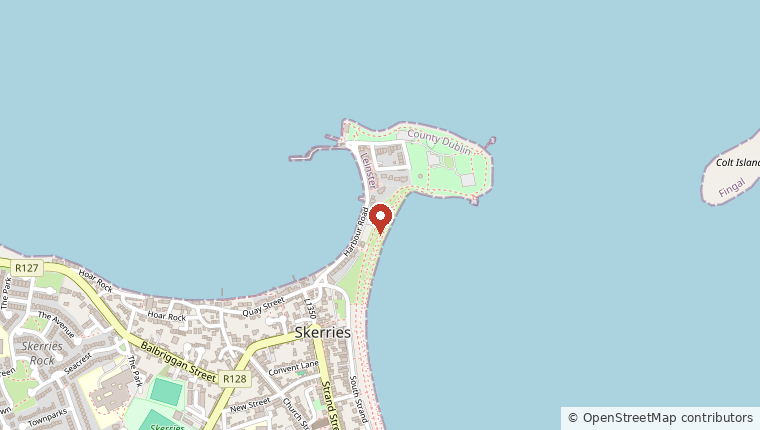
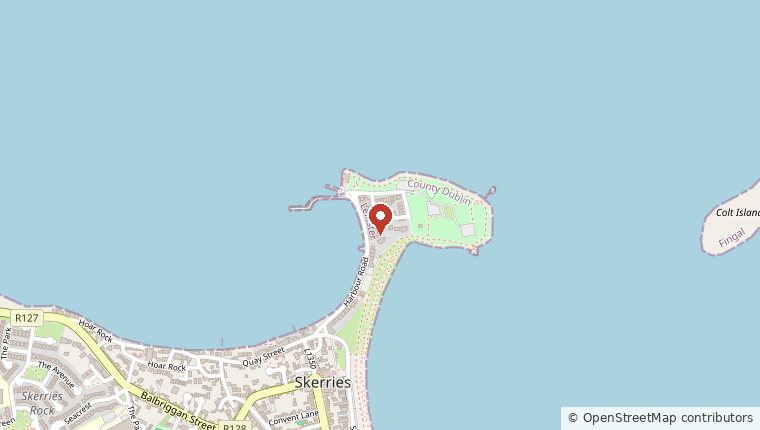
Correct station map location to the actual Red Island station
Marker was ~140m too far south on Harbour Road; recenter on the real
Skerries Coast Guard building (53.5849, -6.1042, per OSM) and update the
map links. Cache-bust the regenerated image.

Changed region(s): [[0.0, 0.2721, 0.6658, 1.0], [0.9079, 0.2721, 1.0, 0.6047]]

diff --git a/contact.html b/contact.html
@@ -76,7 +76,7 @@
           <div class="contact-detail-icon">&#128233;</div>
           <div>
             <strong>General Enquiries</strong>
-            <p><a href="mailto:skerries@coastguard.ie">info@skerriescoastguard.ie</a></p>
+            <p><a href="mailto:skerries@coastguard.ie">info@skerriescoastguard.com</a></p>
             <small>We aim to respond within 3 working days.</small>
           </div>
         </div>
@@ -98,10 +98,10 @@
           </div>
         </div>
 
-        <a class="station-map" href="https://www.openstreetmap.org/?mlat=53.5836&amp;mlon=-6.1042#map=16/53.5836/-6.1042" target="_blank" rel="noopener" aria-label="Open the Skerries Coast Guard Station location on OpenStreetMap in a new tab">
-          <img src="images/station-map.png" alt="Map showing Skerries Coast Guard Station at Red Island, Harbour Road, Skerries, Co. Dublin" />
+        <a class="station-map" href="https://www.openstreetmap.org/?mlat=53.58487&amp;mlon=-6.10421#map=16/53.58487/-6.10421" target="_blank" rel="noopener" aria-label="Open the Skerries Coast Guard Station location on OpenStreetMap in a new tab">
+          <img src="images/station-map.png?v=2" alt="Map showing Skerries Coast Guard Station at Red Island, Harbour Road, Skerries, Co. Dublin" />
         </a>
-        <p class="station-map-note"><span aria-hidden="true">&#128205;</span> Red Island, Skerries, Co. Dublin &middot; <a href="https://www.openstreetmap.org/?mlat=53.5836&amp;mlon=-6.1042#map=16/53.5836/-6.1042" target="_blank" rel="noopener">View on OpenStreetMap</a></p>
+        <p class="station-map-note"><span aria-hidden="true">&#128205;</span> Red Island, Skerries, Co. Dublin &middot; <a href="https://www.openstreetmap.org/?mlat=53.58487&amp;mlon=-6.10421#map=16/53.58487/-6.10421" target="_blank" rel="noopener">View on OpenStreetMap</a></p>
       </div>
 
       <div class="col-form">
